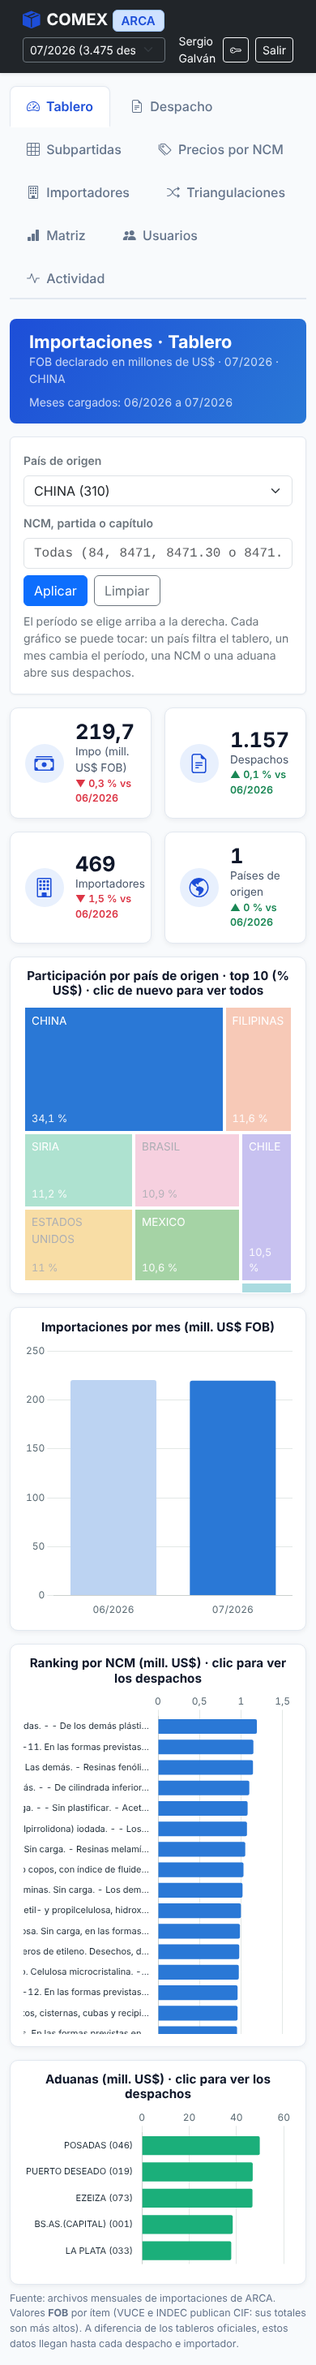
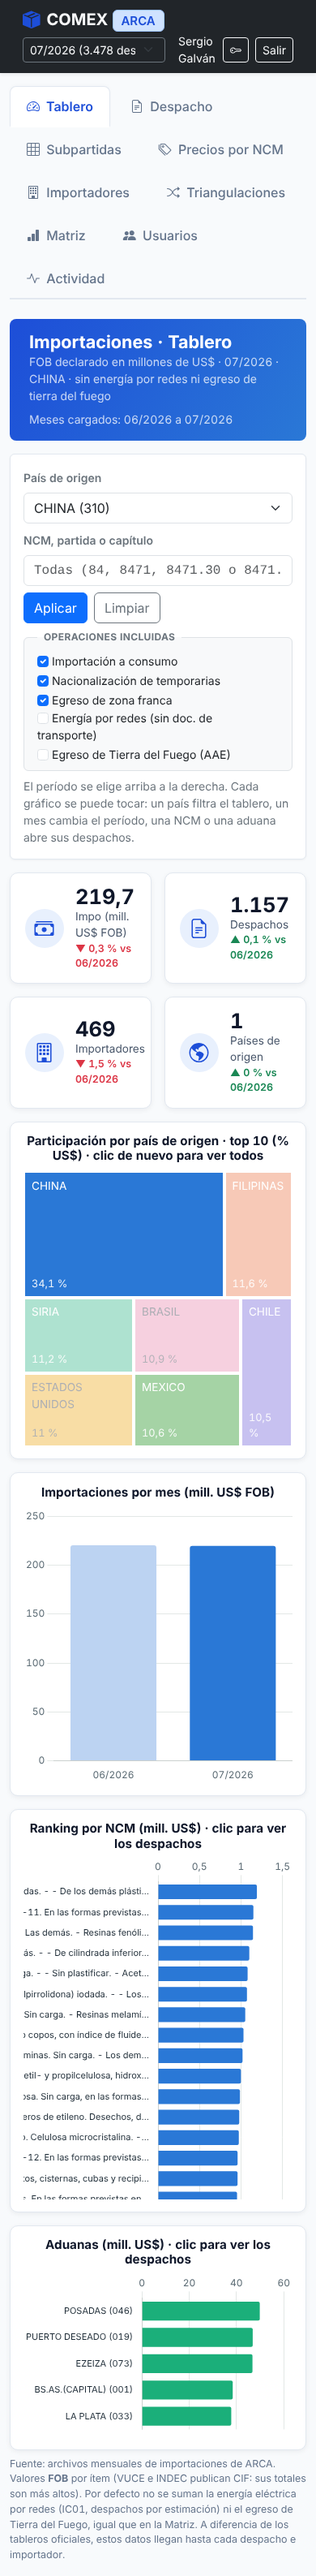
Modificaciones en Tablero

Changed region(s): [[0.0308, 0.0, 0.9846, 0.6244], [0.0308, 0.6244, 0.9231, 0.999], [0.8923, 0.8741, 0.9231, 0.9053]]

diff --git a/api/public/js/impo.js b/api/public/js/impo.js
@@ -360,7 +360,7 @@ function leerFiltrosLista() {
 
 // listaEstado.extra: NCM y país de origen que llegan desde el Tablero (no tienen campo propio)
 const pedirLista = (pagina) => api('/despachos', {
-  periodo: periodo(), ...listaEstado.filtros, ncm: listaEstado.extra?.ncm, origen: listaEstado.extra?.origen,
+  periodo: periodo(), ...listaEstado.filtros, ncm: listaEstado.extra?.ncm, origen: listaEstado.extra?.origen, grupos: listaEstado.extra?.grupos,
   orden: listaEstado.orden, dir: listaEstado.dir, pagina, tamanio: PARTE_LISTA,
 });
 
@@ -1613,7 +1613,7 @@ cargarPeriodos().then(cargarTablero);   // el Tablero es la pestaña de inicio; 
 // Indicadores del período, participación por país (mosaico), evolución
 // mensual, ranking de NCM y de aduanas. Todo se puede tocar: un país filtra el
 // tablero, un mes cambia el período, una NCM o una aduana abre sus despachos.
-const tbEstado = { periodo: undefined, pais: '', ncm: '', datos: null, graficos: [], pedido: 0, filtrosListos: false };
+const tbEstado = { periodo: undefined, pais: '', ncm: '', grupos: null, datos: null, graficos: [], pedido: 0, filtrosListos: false };
 // Paleta propia de la página: la de la Matriz más tres tonos, y gris para "Resto"
 const PALETA_MOSAICO = [...COLORES, '#0e9aa7', '#b4552d', '#5b6b74', GRIS_RESTO];
 const TEXTO_OSCURO = new Set(['#eda100', '#e87ba4', GRIS_RESTO]);
@@ -1636,7 +1636,7 @@ async function cargarTablero() {
   tbEstado.periodo = periodo();
   destino.innerHTML = '<p class="nota">Armando el tablero (la primera vez de cada combinación tarda unos segundos)…</p>';
   try {
-    const d = await api('/tablero', { periodo: periodo(), pais: tbEstado.pais, ncm: tbEstado.ncm });
+    const d = await api('/tablero', { periodo: periodo(), pais: tbEstado.pais, ncm: tbEstado.ncm, grupos: tbEstado.grupos?.join(',') });
     if (pedido !== tbEstado.pedido) return;
     tbEstado.datos = d;
     dibujarTablero(d);
@@ -1657,15 +1657,29 @@ function tarjetaKpi(icono, valor, nombre, extra = '') {
     <div><div class="valor">${valor}</div><div class="nombre">${nombre}</div>${extra}</div></div></div>`;
 }
 
+// Casillas de grupos de destinación, las mismas de la Matriz. Por defecto quedan
+// afuera la energía por redes (IC01) y el egreso de Tierra del Fuego.
+function dibujarGruposTablero(grupos) {
+  if (!tbEstado.grupos) tbEstado.grupos = grupos.filter((g) => g.incluido).map((g) => g.codigo);
+  $('#tb-grupos').innerHTML = '<legend class="float-none w-auto px-2 fs-7 fw-bold text-uppercase text-secondary mb-0">Operaciones incluidas</legend>'
+    + grupos.map((g) => `<label class="me-3 small"><input type="checkbox" class="form-check-input me-1" value="${esc(g.codigo)}" ${g.incluido ? 'checked' : ''}>${esc(g.descrip)}</label>`).join('');
+}
+$('#tb-grupos').addEventListener('change', () => {
+  tbEstado.grupos = [...document.querySelectorAll('#tb-grupos input:checked')].map((i) => i.value);
+  cargarTablero();
+});
+
 function dibujarTablero(d) {
   tbEstado.graficos.forEach((g) => g.destroy());
   tbEstado.graficos = [];
+  dibujarGruposTablero(d.grupos);
   const k = d.indicadores;
   const a = k.anterior;
   const per = periodo() ? mes(periodo()) : 'todos los meses cargados';
   const filtros = [d.filtros.pais && (d.paises.find((p) => p.codigo === d.filtros.pais)?.descrip || `país ${d.filtros.pais}`),
     d.filtros.ncm_descripcion].filter(Boolean);
-  $('#tb-subtitulo').textContent = `FOB declarado en millones de US$ · ${per}${filtros.length ? ` · ${filtros.join(' · ')}` : ''}`;
+  const excluidos = d.grupos.filter((g) => !g.incluido).map((g) => g.descrip.replace(/ \(.*\)$/, '').toLowerCase());
+  $('#tb-subtitulo').textContent = `FOB declarado en millones de US$ · ${per}${filtros.length ? ` · ${filtros.join(' · ')}` : ''}${excluidos.length ? ` · sin ${excluidos.join(' ni ')}` : ''}`;
   if (d.meses.length) $('#tb-actualizado').textContent = `Meses cargados: ${mes(d.meses[0].periodo)} a ${mes(d.meses[d.meses.length - 1].periodo)}`;
 
   if (!Number(k.items)) {
@@ -1689,6 +1703,7 @@ function dibujarTablero(d) {
         <div style="height:${Math.max(200, d.aduanas.length * 28)}px"><canvas id="tb-aduanas"></canvas></div></div></div>
     </div>
     <p class="tb-nota mt-2 mb-0">Fuente: archivos mensuales de importaciones de ARCA. Valores <strong>FOB</strong> por ítem (VUCE e INDEC publican CIF: sus totales son más altos).
+      Por defecto no se suman la energía eléctrica por redes (IC01, despachos por estimación) ni el egreso de Tierra del Fuego, igual que en la Matriz.
       A diferencia de los tableros oficiales, estos datos llegan hasta cada despacho e importador.</p>`;
 
   dibujarMosaico($('#tb-mosaico'), d.paises);
@@ -1813,6 +1828,7 @@ $('#b-limpiar-tablero').addEventListener('click', () => {
   $('#f-tablero').reset();
   tbEstado.pais = '';
   tbEstado.ncm = '';
+  tbEstado.grupos = null;   // vuelve a los de por defecto
   cargarTablero();
 });
 
@@ -1821,7 +1837,12 @@ function irADespachos({ ncm, aduana, etiqueta }) {
   const pais = tbEstado.pais;
   const nombrePais = pais ? (tbEstado.datos.paises.find((p) => p.codigo === pais)?.descrip || pais) : '';
   const partes = [etiqueta, pais && `origen ${nombrePais}`].filter(Boolean);
-  listaEstado.extra = (ncm || pais) ? { ncm: ncm || undefined, origen: pais || undefined, etiqueta: partes.join(' · ') } : null;
+  // Los grupos del tablero también filtran la lista, para que los despachos sumen lo mismo
+  const todos = tbEstado.datos.grupos.every((g) => g.incluido);
+  if (!todos) partes.push(`sólo ${tbEstado.datos.grupos.filter((g) => g.incluido).map((g) => g.descrip.replace(/ \(.*\)$/, '').toLowerCase()).join(', ')}`);
+  listaEstado.extra = (ncm || pais || !todos)
+    ? { ncm: ncm || undefined, origen: pais || undefined, grupos: todos ? undefined : tbEstado.grupos.join(','), etiqueta: partes.join(' · ') }
+    : null;
   $('#f-lista').reset();
   listaEstado.orden = 'despacho';
   listaEstado.dir = 'desc';

diff --git a/api/src/models/impo.model.js b/api/src/models/impo.model.js
@@ -90,7 +90,7 @@ const ORDEN_DESPACHOS = {
   carga: 'c.Periodo {dir}, c.IdOperacion {dir}',
 };
 
-async function listarDespachos({ periodo, importador, destinacion, anio, aduana, ncm, origen, orden = 'carga', dir = 'desc', pagina, tamanio }) {
+async function listarDespachos({ periodo, importador, destinacion, anio, aduana, ncm, origen, grupos, orden = 'carga', dir = 'desc', pagina, tamanio }) {
   const params = [];
   let where = 'WHERE 1 = 1';
   where += filtroPeriodo('c', periodo, params);
@@ -105,6 +105,11 @@ async function listarDespachos({ periodo, importador, destinacion, anio, aduana,
   } else if (aduana) {
     where += ' AND c.AduanaOficializacion = ?';
     params.push(aduana);
+  }
+  // Grupos de destinación: sólo cuando llegan (desde el Tablero); sin ellos, todas
+  if (grupos) {
+    const fg = await filtroGrupos(grupos);
+    if (fg.sql) { where += ` AND ${fg.sql}`; params.push(...fg.valores); }
   }
   // NCM (capítulo a NCM) y país de origen: despachos con al menos un ítem que cumpla
   if (ncm || origen) {
@@ -519,6 +524,36 @@ async function idsDeCodigo(digitos) {
   return rows.map((r) => r.id);
 }
 
+// Grupos de destinación (los de la Matriz) -> condición sobre c.Destinacion.
+// grupo_destinacion guarda sólo las excepciones: lo que no figura es CONSUMO.
+// grupos = null usa los que tienen PorDefecto (deja afuera energía por redes y AAE).
+let cacheGrupos = null;
+async function gruposDestinacion() {
+  if (cacheGrupos && Date.now() - cacheGrupos.hora < 60 * 60 * 1000) return cacheGrupos;
+  const [grupos] = await pool.query('SELECT Codigo AS codigo, Descrip AS descrip, PorDefecto AS por_defecto FROM grupo ORDER BY Orden');
+  const [destinaciones] = await pool.query('SELECT Destinacion AS destinacion, Grupo AS grupo FROM grupo_destinacion');
+  cacheGrupos = { hora: Date.now(), grupos, destinaciones };
+  return cacheGrupos;
+}
+
+async function filtroGrupos(grupos, aliasCaratula = 'c') {
+  const g = await gruposDestinacion();
+  const incluidos = new Set(grupos || g.grupos.filter((x) => x.por_defecto).map((x) => x.codigo));
+  const lista = g.grupos.map((x) => ({ ...x, por_defecto: Boolean(x.por_defecto), incluido: incluidos.has(x.codigo) }));
+  const fuera = g.destinaciones.filter((d) => !incluidos.has(d.grupo)).map((d) => d.destinacion);
+  const dentro = g.destinaciones.filter((d) => incluidos.has(d.grupo)).map((d) => d.destinacion);
+  let sql = null;
+  const valores = [];
+  if (incluidos.has('CONSUMO')) {
+    if (fuera.length) { sql = `${aliasCaratula}.Destinacion NOT IN (?)`; valores.push(fuera); }
+  } else if (dentro.length) {
+    sql = `${aliasCaratula}.Destinacion IN (?)`; valores.push(dentro);
+  } else {
+    sql = '1 = 0';
+  }
+  return { sql, valores, grupos: lista };
+}
+
 // Mes anterior a AAAAMM
 const mesAnterior = (p) => (p % 100 === 1 ? p - 89 : p - 1);
 
@@ -539,8 +574,9 @@ function tablero(filtros) {
   return promesa;
 }
 
-async function calcularTablero({ periodo, pais, ncm }) {
+async function calcularTablero({ periodo, pais, ncm, grupos }) {
   const ids = ncm ? await idsDeCodigo(ncm) : null;
+  const fg = await filtroGrupos(grupos);
   const descripcionNcm = ncm ? await describirCodigo(ncm) : null;
   // Condición de ítem común (país de origen y NCM) y, aparte, la de período
   const condicion = (conPeriodo, per = periodo, conPais = true) => {
@@ -549,6 +585,7 @@ async function calcularTablero({ periodo, pais, ncm }) {
     if (conPeriodo && per !== null) { partes.push('i.Periodo = ?'); valores.push(per); }
     if (pais && conPais) { partes.push('i.PaisOrigen = ?'); valores.push(pais); }
     if (ids) { partes.push(ids.length ? 'i.IdPosicion IN (?)' : '1 = 0'); if (ids.length) valores.push(ids); }
+    if (fg.sql) { partes.push(fg.sql); valores.push(...fg.valores); }
     return { where: partes.length ? `WHERE ${partes.join(' AND ')}` : '', valores };
   };
   const indicadores = async (per) => {
@@ -572,15 +609,18 @@ async function calcularTablero({ periodo, pais, ncm }) {
     periodo !== null ? indicadores(mesAnterior(periodo)) : Promise.resolve(null),
     pool.query(`
       SELECT i.PaisOrigen AS codigo, p.Descrip AS descrip, SUM(i.FobTotalDolares) AS fob
-      FROM item i LEFT JOIN paises p ON p.Codigo = i.PaisOrigen
+      FROM item i JOIN caratula c ON c.IdOperacion = i.IdOperacion AND c.Periodo = i.Periodo
+      LEFT JOIN paises p ON p.Codigo = i.PaisOrigen
       ${paraPaises.where} GROUP BY i.PaisOrigen, p.Descrip ORDER BY fob DESC`, paraPaises.valores),
     pool.query(`
       SELECT i.Periodo AS periodo, SUM(i.FobTotalDolares) AS fob, COUNT(DISTINCT i.IdOperacion) AS despachos
-      FROM item i ${sinPer.where} GROUP BY i.Periodo ORDER BY i.Periodo`, sinPer.valores),
+      FROM item i JOIN caratula c ON c.IdOperacion = i.IdOperacion AND c.Periodo = i.Periodo
+      ${sinPer.where} GROUP BY i.Periodo ORDER BY i.Periodo`, sinPer.valores),
     pool.query(`
       SELECT pos.PosicionSIM AS ncm, pos.DescripcionNCM AS descripcion, t.fob, t.items
       FROM (SELECT i.IdPosicion, SUM(i.FobTotalDolares) AS fob, COUNT(*) AS items
-            FROM item i ${conPer.where} GROUP BY i.IdPosicion ORDER BY fob DESC LIMIT 50) t
+            FROM item i JOIN caratula c ON c.IdOperacion = i.IdOperacion AND c.Periodo = i.Periodo
+            ${conPer.where} GROUP BY i.IdPosicion ORDER BY fob DESC LIMIT 50) t
       JOIN posicion pos ON pos.IdPosicion = t.IdPosicion
       ORDER BY t.fob DESC`, conPer.valores),
     pool.query(`
@@ -601,6 +641,7 @@ async function calcularTablero({ periodo, pais, ncm }) {
   const anteriorCargado = anterior && Number(anterior.items) > 0 ? anterior : null;
   return {
     filtros: { periodo, pais, ncm, ncm_descripcion: descripcionNcm },
+    grupos: fg.grupos,
     indicadores: { ...actual, periodo_anterior: anteriorCargado ? mesAnterior(periodo) : null, anterior: anteriorCargado },
     paises: top,
     meses,

diff --git a/api/test/integracion/tablero.test.js b/api/test/integracion/tablero.test.js
@@ -16,11 +16,16 @@ describe('Tablero', { skip: sinBase }, () => {
   });
   after(async () => { await limpiar(); await pool.end(); });
 
+  // Por defecto el tablero deja afuera las destinaciones de los grupos sin PorDefecto (REDES, AAE)
+  const SIN_EXCLUIDOS = `c.Destinacion NOT IN (SELECT gd.Destinacion FROM grupo_destinacion gd
+    JOIN grupo g ON g.Codigo = gd.Grupo WHERE g.PorDefecto = 0)`;
+
   test('los indicadores coinciden con la base', async () => {
     const [[base]] = await pool.query(`
       SELECT SUM(i.FobTotalDolares) AS fob, COUNT(DISTINCT i.IdOperacion, i.Periodo) AS despachos,
              COUNT(DISTINCT c.IdImportador) AS importadores, COUNT(DISTINCT i.PaisOrigen) AS paises
-      FROM item i JOIN caratula c ON c.IdOperacion = i.IdOperacion AND c.Periodo = i.Periodo`);
+      FROM item i JOIN caratula c ON c.IdOperacion = i.IdOperacion AND c.Periodo = i.Periodo
+      WHERE ${SIN_EXCLUIDOS}`);
     const k = (await pedir().expect(200)).body.indicadores;
     assert.ok(cerca(k.fob, base.fob));
     assert.equal(k.despachos, Number(base.despachos));
@@ -54,15 +59,33 @@ describe('Tablero', { skip: sinBase }, () => {
     const [[base]] = await pool.query(`
       SELECT SUM(i.FobTotalDolares) AS fob, COUNT(DISTINCT i.IdOperacion, i.Periodo) AS despachos
       FROM item i JOIN posicion p ON p.IdPosicion = i.IdPosicion
-      WHERE i.PaisOrigen = ? AND p.PosicionSIM LIKE ?`, [uno.pais, `${uno.partida}%`]);
+      JOIN caratula c ON c.IdOperacion = i.IdOperacion AND c.Periodo = i.Periodo
+      WHERE i.PaisOrigen = ? AND p.PosicionSIM LIKE ? AND ${SIN_EXCLUIDOS}`, [uno.pais, `${uno.partida}%`]);
     const d = (await pedir({ pais: uno.pais, ncm: uno.partida }).expect(200)).body;
     assert.ok(cerca(d.indicadores.fob, base.fob));
     assert.equal(d.indicadores.despachos, Number(base.despachos));
     assert.ok(d.ncm.every((n) => n.ncm.replace(/\./g, '').startsWith(uno.partida)));
 
     // La lista de despachos con los mismos filtros (lo que abre un clic en el tablero)
-    const lista = await request(app).get('/api/impo/despachos').query({ ncm: uno.partida, origen: uno.pais, tamanio: 1 }).set(auth).expect(200);
+    const grupos = d.grupos.filter((g) => g.incluido).map((g) => g.codigo).join(',');
+    const lista = await request(app).get('/api/impo/despachos').query({ ncm: uno.partida, origen: uno.pais, grupos, tamanio: 1 }).set(auth).expect(200);
     assert.equal(lista.body.total, Number(base.despachos));
+  });
+
+  test('grupos de destinación: por defecto sin energía por redes ni AAE; con todos, suma todo', async () => {
+    const def = (await pedir().expect(200)).body;
+    assert.deepEqual(def.grupos.filter((g) => !g.incluido).map((g) => g.codigo).sort(), ['AAE', 'REDES']);
+    const todos = def.grupos.map((g) => g.codigo).join(',');
+    const [[base]] = await pool.query('SELECT SUM(FobTotalDolares) AS fob FROM item');
+    const t = (await pedir({ grupos: todos }).expect(200)).body;
+    assert.ok(cerca(t.indicadores.fob, base.fob), 'con todos los grupos suma todo el archivo');
+    const [[redes]] = await pool.query(`
+      SELECT COALESCE(SUM(i.FobTotalDolares), 0) AS fob FROM item i
+      JOIN caratula c ON c.IdOperacion = i.IdOperacion AND c.Periodo = i.Periodo
+      JOIN grupo_destinacion gd ON gd.Destinacion = c.Destinacion WHERE gd.Grupo = 'REDES'`);
+    const r = (await pedir({ grupos: 'REDES' }).expect(200)).body;
+    assert.ok(cerca(r.indicadores.fob, redes.fob), 'sólo energía por redes');
+    await pedir({ grupos: 'consumo;temp' }).expect(400);
   });
 
   test('rechaza códigos mal escritos (400)', async () => {

diff --git a/api/src/controllers/impo.controller.js b/api/src/controllers/impo.controller.js
@@ -65,12 +65,7 @@ const matriz = handler(async (req, res) => {
     seccion = String(req.query.seccion || '').trim().toUpperCase();
     if (!/^[IVX]{1,5}$/.test(seccion)) throw new HttpError(400, 'Para ver capítulos indicá la sección en números romanos, por ejemplo seccion=XVI.');
   }
-  let grupos = null;
-  if (req.query.grupos !== undefined) {
-    grupos = String(req.query.grupos).split(',').map((g) => g.trim().toUpperCase()).filter(Boolean);
-    if (grupos.some((g) => !/^[A-Z]{2,10}$/.test(g))) throw new HttpError(400, 'grupos es una lista de códigos separados por coma, por ejemplo CONSUMO,TEMP.');
-  }
-  res.json(await model.matriz({ nivel, seccion, grupos }));
+  res.json(await model.matriz({ nivel, seccion, grupos: listaGrupos(req.query.grupos) }));
 });
 
 const resumenSubpartidas = handler(async (req, res) => {
@@ -100,6 +95,14 @@ const obtenerDespacho = handler(async (req, res) => {
   res.json(despacho);
 });
 
+// Grupos de destinación (CONSUMO,TEMP,ZF,REDES,AAE); sin el parámetro, null = los de por defecto
+function listaGrupos(v) {
+  if (v === undefined) return null;
+  const grupos = String(v).split(',').map((g) => g.trim().toUpperCase()).filter(Boolean);
+  if (grupos.some((g) => !/^[A-Z]{2,10}$/.test(g))) throw new HttpError(400, 'grupos es una lista de códigos separados por coma, por ejemplo CONSUMO,TEMP.');
+  return grupos;
+}
+
 // País del KIT: 3 dígitos
 function paisOpcional(v, nombre) {
   if (v === undefined || v === '') return null;
@@ -113,6 +116,7 @@ const tablero = handler(async (req, res) => {
     periodo: periodoOpcional(req.query.periodo),
     pais: paisOpcional(req.query.pais, 'pais'),
     ncm: req.query.ncm ? codigoNcm(req.query.ncm) : null,
+    grupos: listaGrupos(req.query.grupos),
   }));
 });
 
@@ -134,6 +138,7 @@ const listarDespachos = handler(async (req, res) => {
     aduana: aduana || null,
     ncm: q.ncm ? codigoNcm(q.ncm) : null,
     origen: paisOpcional(q.origen, 'origen'),
+    grupos: listaGrupos(q.grupos),
     orden,
     dir: q.dir === 'asc' ? 'asc' : 'desc',
     pagina: entero(q.pagina, 1, 1, 100000),

diff --git a/api/public/css/impo.css b/api/public/css/impo.css
@@ -371,7 +371,7 @@ tr.fila-clic:hover td { background-color: #eef4ff; }
   box-shadow: 0 2px 6px rgba(15, 23, 42, 0.06); padding: 0.9rem 1rem; height: 100%;
 }
 .tb-tarjeta h3 { font-size: 0.95rem; font-weight: 700; text-align: center; margin-bottom: 0.6rem; color: #0f172a; }
-.mosaico { position: relative; height: 340px; }
+.mosaico { position: relative; height: 340px; overflow: hidden; }
 .mosaico .celda {
   position: absolute; box-sizing: border-box; border: 2px solid #fff; padding: 0.35rem 0.5rem;
   color: #fff; font-size: 0.85rem; overflow: hidden; cursor: pointer;
@@ -473,3 +473,6 @@ tr.actual td { background-color: #e0ebff !important; }
 @media print {
   .ac-lista { display: none !important; }
 }
+
+/* Título "Operaciones incluidas" (Tablero y Matriz): Bootstrap no trae fs-7 */
+fieldset.grupos legend { font-size: 0.75rem; letter-spacing: 0.03em; }

diff --git a/api/public/impo.html b/api/public/impo.html
@@ -159,6 +159,11 @@
                 <button type="submit" class="btn btn-primary">Aplicar</button>
                 <button type="button" id="b-limpiar-tablero" class="btn btn-outline-secondary">Limpiar</button>
               </div>
+              <div class="col-12">
+                <fieldset class="grupos p-2 px-3 rounded bg-light border" id="tb-grupos">
+                  <legend class="float-none w-auto px-2 fs-7 fw-bold text-uppercase text-secondary mb-0">Operaciones incluidas</legend>
+                </fieldset>
+              </div>
               <div class="col-12 small text-secondary">El período se elige arriba a la derecha. Cada gráfico se puede tocar: un país filtra el tablero, un mes cambia el período, una NCM o una aduana abre sus despachos.</div>
             </form>
           </div>

diff --git a/docs/API.md b/docs/API.md
@@ -64,8 +64,8 @@ administración y el SQL libre exigen token de admin **siempre**.
 | `GET /impo/periodos` | | `[{ periodo, caratulas, items }]` |
 | `GET /impo/catalogos` | | `{ regiones, paises, aduanas }` para armar los filtros |
 | `GET /impo/matriz` | `nivel` (`seccion`/`capitulo`), `seccion` (I…XXI), `grupos` (lista: CONSUMO,TEMP,ZF,REDES,AAE) | FOB por sección o capítulo y mes (ver abajo) |
-| `GET /impo/tablero` | `periodo`, `pais` (origen, 3 dígitos), `ncm` (capítulo, partida, subpartida o NCM: 2, 4, 6 u 8 dígitos) | `{ filtros, indicadores: { fob, items, despachos, importadores, paises, periodo_anterior, anterior }, paises (top 10 + resto, con participacion; no se filtra por país), meses (evolución completa, sin el filtro de período), ncm (top 50), aduanas (top 15) }`. Cada combinación se guarda 10 minutos |
-| `GET /impo/despachos` | `periodo`, `anio` (2 dígitos, como en el número: `26`), `aduana` (3 dígitos), `destinacion` (`IC04`), `importador` (3 letras o más), `ncm` (2, 4, 6 u 8 dígitos) y `origen` (país, 3 dígitos): despachos con al menos un ítem que cumpla, `orden` (`despacho`, `periodo`, `importador`, `carga`; por defecto `carga`), `dir` (`desc`/`asc`), `pagina`, `tamanio` (hasta 100) | `{ total, pagina, tamanio, resultados: [{ nro_despacho, periodo, destinacion, aduana, aduana_desc, importador, divisa, divisa_abrev, fob_total_divisa, items }] }`. `orden=despacho` ordena por número: dentro de una aduana, los últimos registrados primero |
+| `GET /impo/tablero` | `periodo`, `pais` (origen, 3 dígitos), `ncm` (capítulo, partida, subpartida o NCM: 2, 4, 6 u 8 dígitos), `grupos` (grupos de destinación como en la Matriz; sin el parámetro, los de por defecto: sin `REDES` ni `AAE`) | `{ filtros, grupos: [{ codigo, descrip, por_defecto, incluido }], indicadores: { fob, items, despachos, importadores, paises, periodo_anterior, anterior }, paises (top 10 + resto, con participacion; no se filtra por país), meses (evolución completa, sin el filtro de período), ncm (top 50), aduanas (top 15) }`. Cada combinación se guarda 10 minutos |
+| `GET /impo/despachos` | `periodo`, `anio` (2 dígitos, como en el número: `26`), `aduana` (3 dígitos), `destinacion` (`IC04`), `importador` (3 letras o más), `ncm` (2, 4, 6 u 8 dígitos) y `origen` (país, 3 dígitos): despachos con al menos un ítem que cumpla, `grupos` (grupos de destinación; sin el parámetro, todas las destinaciones), `orden` (`despacho`, `periodo`, `importador`, `carga`; por defecto `carga`), `dir` (`desc`/`asc`), `pagina`, `tamanio` (hasta 100) | `{ total, pagina, tamanio, resultados: [{ nro_despacho, periodo, destinacion, aduana, aduana_desc, importador, divisa, divisa_abrev, fob_total_divisa, items }] }`. `orden=despacho` ordena por número: dentro de una aduana, los últimos registrados primero |
 | `GET /impo/despachos/:nro` | | carátula con ítems y liquidación |
 | `GET /impo/subpartidas` | `desde`, `hasta` (rango NCM), `periodo`, `limite`, y los filtros de Precios: `origenes`, `region`, `paises`, `aduanas`, `periodo_desde`, `periodo_hasta` (el rango de períodos se llama así porque `desde`/`hasta` ya son el rango NCM) | resumen por NCM, con `filtros` aplicados |
 | `GET /impo/ncm/:ncm/precios` | `periodo` o `desde`/`hasta`, `region`, `paises`, `aduanas` (ver filtros) | valores unitarios por origen y unidad; `nivel` y, fuera de NCM, `posiciones` (cuántas NCM entran en cada fila) |

diff --git a/docs/pruebas/README.md b/docs/pruebas/README.md
@@ -21,7 +21,7 @@ que registraron en la auditoría. Sin `DB_USER` o `JWT_SECRET` en el
 `.env`, se saltean en lugar de fallar.
 
 Evidencia de la última ejecución: [`salida-npm-test.txt`](salida-npm-test.txt)
-y [`salida-npm-test.png`](salida-npm-test.png) — 56 pruebas (20 unitarias y 36 de integración), 56 correctas.
+y [`salida-npm-test.png`](salida-npm-test.png) — 57 pruebas (20 unitarias y 37 de integración), 57 correctas.
 
 ## Pruebas unitarias (`api/test/unit/`)
 
@@ -111,6 +111,7 @@ Hace pedidos reales a la API y verifica en la tabla `auditoria` qué quedó regi
 | Mosaico de países | Hasta 10 países más "Resto"; las participaciones suman 100 % y los FOB suman el total | ✔ |
 | Meses | Suman el total; con un período elegido, los indicadores son los de ese mes y la evolución mensual sigue completa | ✔ |
 | País y partida juntos | FOB y despachos iguales a SQL con esos filtros; el ranking sólo trae NCM de esa partida; la lista de despachos que abre el clic cuenta lo mismo | ✔ |
+| Grupos de destinación | Por defecto quedan afuera REDES y AAE y los indicadores coinciden con SQL sin esas destinaciones; con todos los grupos suma todo el archivo; con sólo REDES, sólo la energía por redes | ✔ |
 | Códigos mal escritos | NCM de 3 dígitos, país de 2 u origen con letras: 400 | ✔ |
 
 ### 8. Subpartidas con filtros (`subpartidas.test.js`)
@@ -204,6 +205,8 @@ Sobre la base de prueba, filtrando año 2026 y aduana Ezeiza:
 | Clic en un despacho | Se abre en el panel lateral | [`t-05-panel.png`](t-05-panel.png) |
 | Clic en una aduana | Lista de despachos de esa aduana con los filtros del tablero | — |
 | En el celular | Las tarjetas y gráficos se apilan; el ranking muestra sólo el código NCM | [`t-06-celular.png`](t-06-celular.png) |
+| Operaciones incluidas, por defecto | Sin energía por redes ni Tierra del Fuego, como la Matriz; el subtítulo lo aclara | [`g-01-sin-redes.png`](g-01-sin-redes.png) |
+| Marcar "Energía por redes" | La energía eléctrica (2716.00.00) pasa a encabezar el ranking y Paraguay, Uruguay y Brasil suben en el mosaico (datos inventados) | [`g-02-con-redes.png`](g-02-con-redes.png) |
 
 ## Prueba desde la interfaz (filtros de Subpartidas)
 

diff --git a/docs/DECISIONES.md b/docs/DECISIONES.md
@@ -392,7 +392,10 @@ courier.
 **Grupos de destinación.** `grupo_destinacion` guarda sólo las excepciones;
 toda destinación que no figura es CONSUMO. Por defecto el gráfico incluye
 CONSUMO, TEMP (nacionalización de temporarias) y ZF (egreso de zona franca),
-y deja afuera REDES y AAE, que se pueden sumar con una casilla. Pendiente de
+y deja afuera REDES y AAE, que se pueden sumar con una casilla. El Tablero usa
+los mismos grupos y los mismos valores por defecto: sin ellos, la energía
+eléctrica de IC01 encabezaba el ranking de NCM con más del triple de la
+siguiente e inflaba a los países limítrofes. Pendiente de
 confirmar con la despachante el tratamiento de AAE y ZF.
 
 **Cálculo.** Una sola consulta agrupada por periodo, grupo y capítulo (unas
